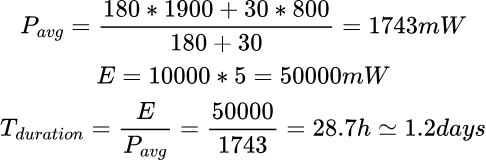
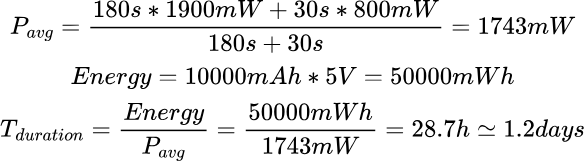
[helper] correction of forumlas

diff --git a/code/helper/README.md b/code/helper/README.md
@@ -70,7 +70,7 @@ NPN transistor that is capable to amplify and/or commute signals for small devic
 The fan is controlled through the previously described component and its capable to (virtually!) decrease or increase the temperature. Differently from some others fans, it has no possibility to change the speed of the fan due to lack of third pin.
 
 #### NTC Thermistor ####
-Component that belongs to family of semiconductors that changes its internal resistance with different values of temperature. For this project, it covers a relevant role because of it allows to detecte if is needed to activate the conditioner for restoring the temperature of the room to acceptable level. Also for this sensor, it is used an analog signal for getting data.
+Component that belongs to family of semiconductors that changes its internal resistance with different values of temperature. For this project, it covers a relevant role because of it allows to detect if is needed to activate the conditioner for restoring the temperature of the room to acceptable level. Also for this sensor, it is used an analog signal for getting data.
 The formulas for getting the value of temperature are the following:
 
 <img src="./images/thermistor_resistence.png">
@@ -175,11 +175,10 @@ For the following graphs is needed to underline the fact that power values has m
 
 ### High sleep/awake ratio ###
 The importance of chosing a good trade-off between between period of sleep and period of activity is fundamental for obtaining a reasonable energy consumption. Applying a sleep of only 30s, with respect of an average up time of 180s, leads to this situation:
-
 <img src= "./images/consumption_high_freq.jpg"></br>
 
 As can be observed by the plot, even if the light sleep reduces the energy consumption for a factor approximatively equal to 2.5, the average, there are an quite high spike of energy needed for functioning. As the practice allows to observe, the device will be for more or less 3 minutes in activity and am average of half a minute in a sleepy state. It is interesting to observe that it is required an average of 1900 mW of power for maintaining in activity the device while is executing the code abaout interaction and communication and an average of 800 mW for the sleep mode phase. Knowing that the mcu is powered via USB, the nominal tension used by it is about 5V. Assuming to use a battery of 10000 mAh, it is possible to achieve the time that this battery can be up:
-<br>
+
 <img src = "./images/high_freq.png">
 
 ### Low sleep/awake ratio ###
@@ -187,13 +186,13 @@ Instead of a short period of sleep of 30s, it can be quite better to use a longe
 
 <img src= "./images/consumption_low_freq.jpg"></br>
 
-The reduction of the power needed between awake and sleep states is the same, alway arounf 2.5 times better for the second one. By applying the longer sleep time, it can be reached an higher lifetime of the battery:
-<br>
+The reduction of the power needed between awake and sleep states is the same, always around 2.5 times better for the second one. By applying the longer sleep time, it can be reached a higher lifetime of the battery:
+
 <img src = "./images/low_freq.png">
 
 ### Observations ###
 As can be appreciated by the graphs and the numerical results, appying a longer sleep period time benefits the efficiency of the battery duration. However, this value can be also enough unsufficient due to different possible applications of the project. 
 
-An important observation relies on the fact that the sammpled energy consumption is related to a "bad" case on the overall usage of the system. In fact, it was provided a situation where the devices had to communicate the presence of people inside the room, a bad quality of the air and an high temperature. With all those factors, the ESP32 is in a condition where it has to send a signal to the servomotor for opening the window and it also has to activate the fan. Another relevant detail to underline is that the actuators can be power supplied by an external source of power like the 220V AC.
+An important observation relies on the fact that the sampled energy consumption is related to a "bad" case on the overall usage of the system. In fact, it is provided a situation where the devices had to communicate the presence of people inside the room, a bad quality of the air and a high temperature. With all those factors, the ESP32 is in a condition where it has to send a signal to the servomotor for opening the window and it also has to activate the fan. Another relevant detail to underline is that the actuators can be power supplied by an external source of power like the 220V AC.
 
 Finally, the thermistor does not require a lot of power unlike the air sensor that has to heat an internal coil and maintains it at a quite high temperature for detecting the gasses inside the air.
